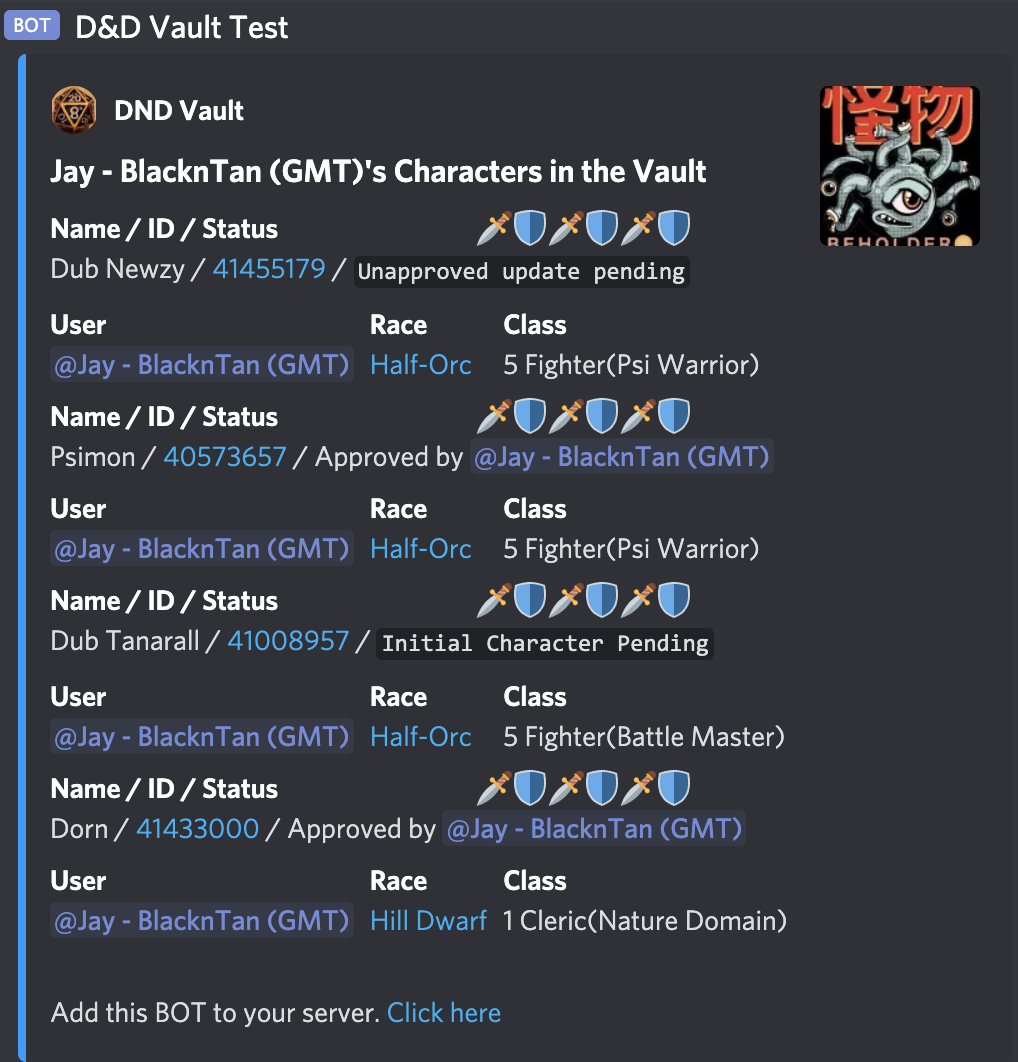
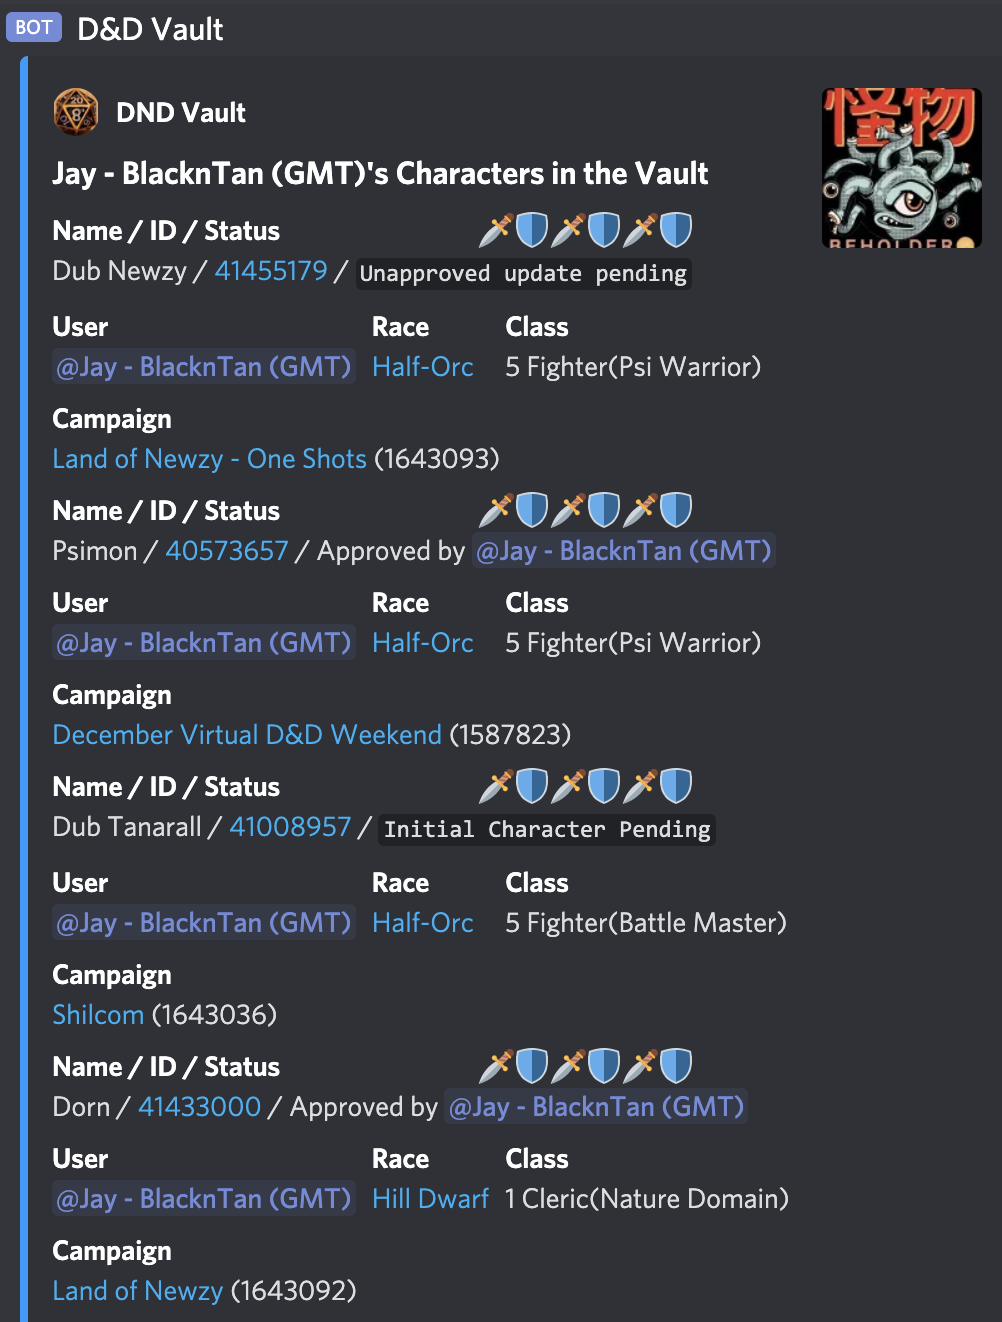
updated campaign list help

Changed region(s): [[0.0, 0.0, 0.7735, 1.0], [0.8044, 0.0621, 0.99, 0.2486]]

diff --git a/index.js b/index.js
@@ -99,7 +99,7 @@ async function handleHelp(msg, guildConfig) {
             \`  - [ ] approved\` - \`list all approved\`
             \`  - [x] queued\` - \`list all characters queued for approval\`
             \`  - [x] user [@USER_NAME] \`- \`list all characters by discord user\`
-            \`  - [ ] campaign [CAMPAIGN_ID] - list all characters registered for a campaign\`
+            \`  - [x] campaign [CAMPAIGN_ID] - list all characters registered for a campaign\`
             `},
             {
                 name: '\u200B', value: `

diff --git a/README.md b/README.md
@@ -46,6 +46,7 @@ all the while anyone on the server can 'view' any user's character ...
 !changes 41867999
 !approve 41867999
 ```
+
 ## Commands
 
 Not all commands are implemented, this is a list of commands that will **hopefully** be implemented in short order. IGNORE the brackets in the usage help below.
@@ -58,7 +59,7 @@ Not all commands are implemented, this is a list of commands that will **hopeful
   - [ ] approved - list all approved
   - [x] queued - list all characters queued for approval
   - [x] user [@USER_NAME] - list all characters by discord user
-  - [ ] campaign [CAMPAIGN_ID] - list all characters registered for a campaign
+  - [x] campaign [CAMPAIGN_ID] - list all characters registered for a campaign
 - [ ] show [CHAR_ID] - show a user's character from the vault
 - [x] update [DNDBEYOND_URL] - request an update a character from dndbeyond to the vault
 - [x] remove [DNDBEYOND_URL] - remove a character from the vault
